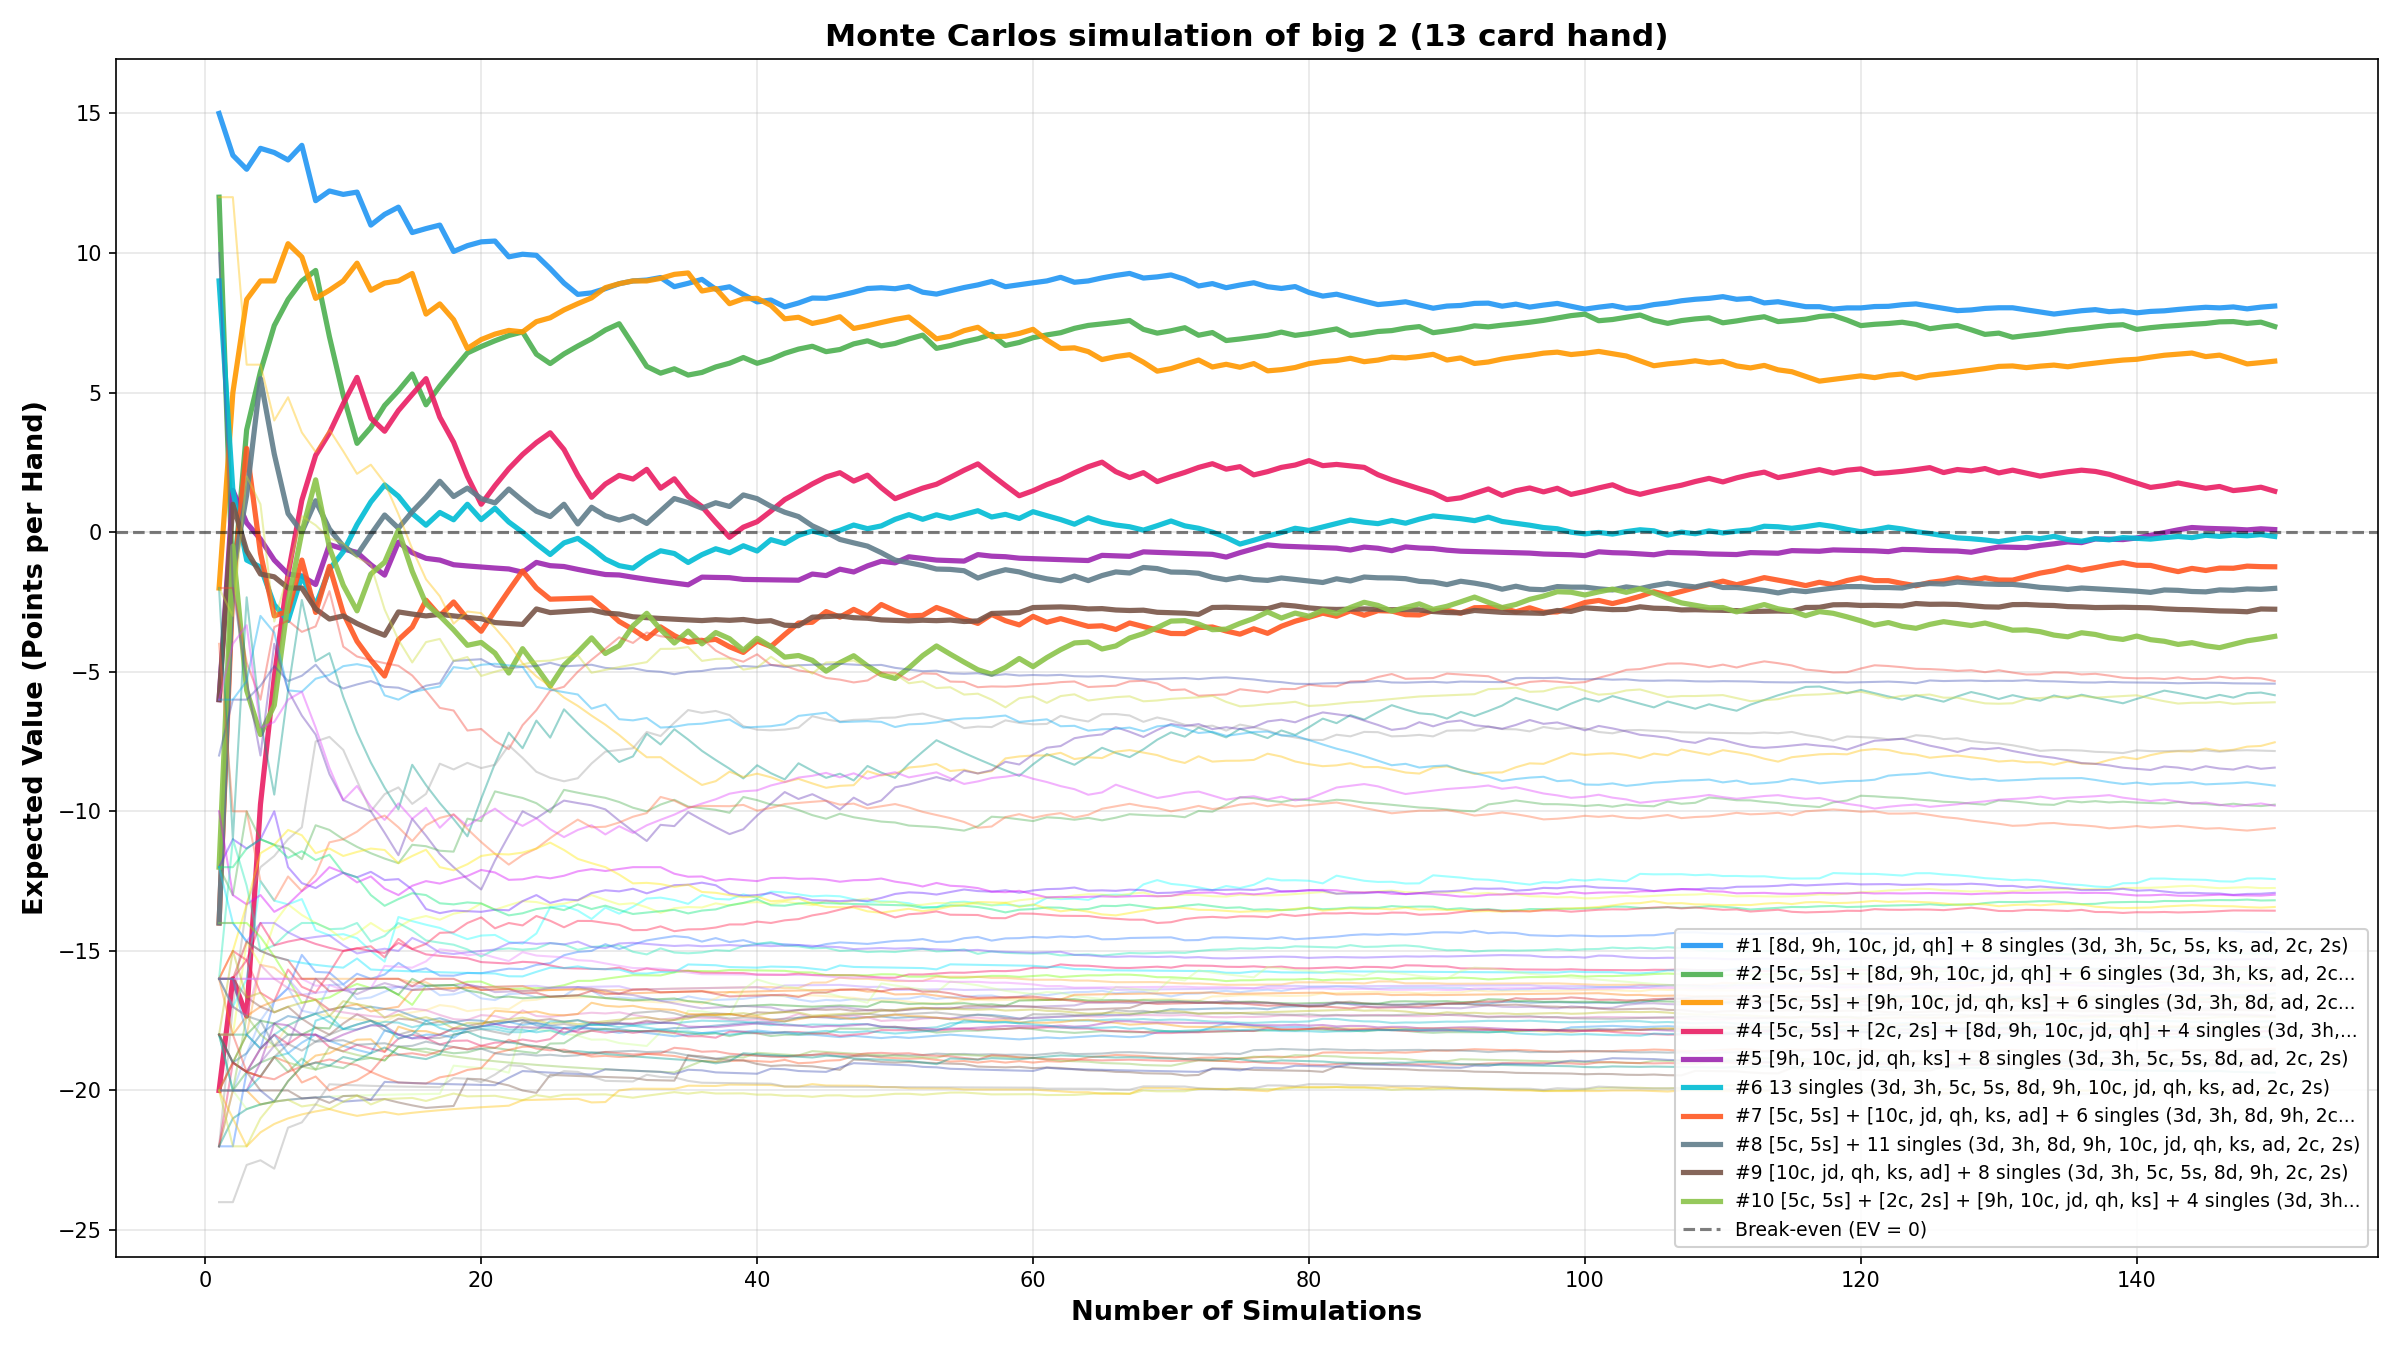
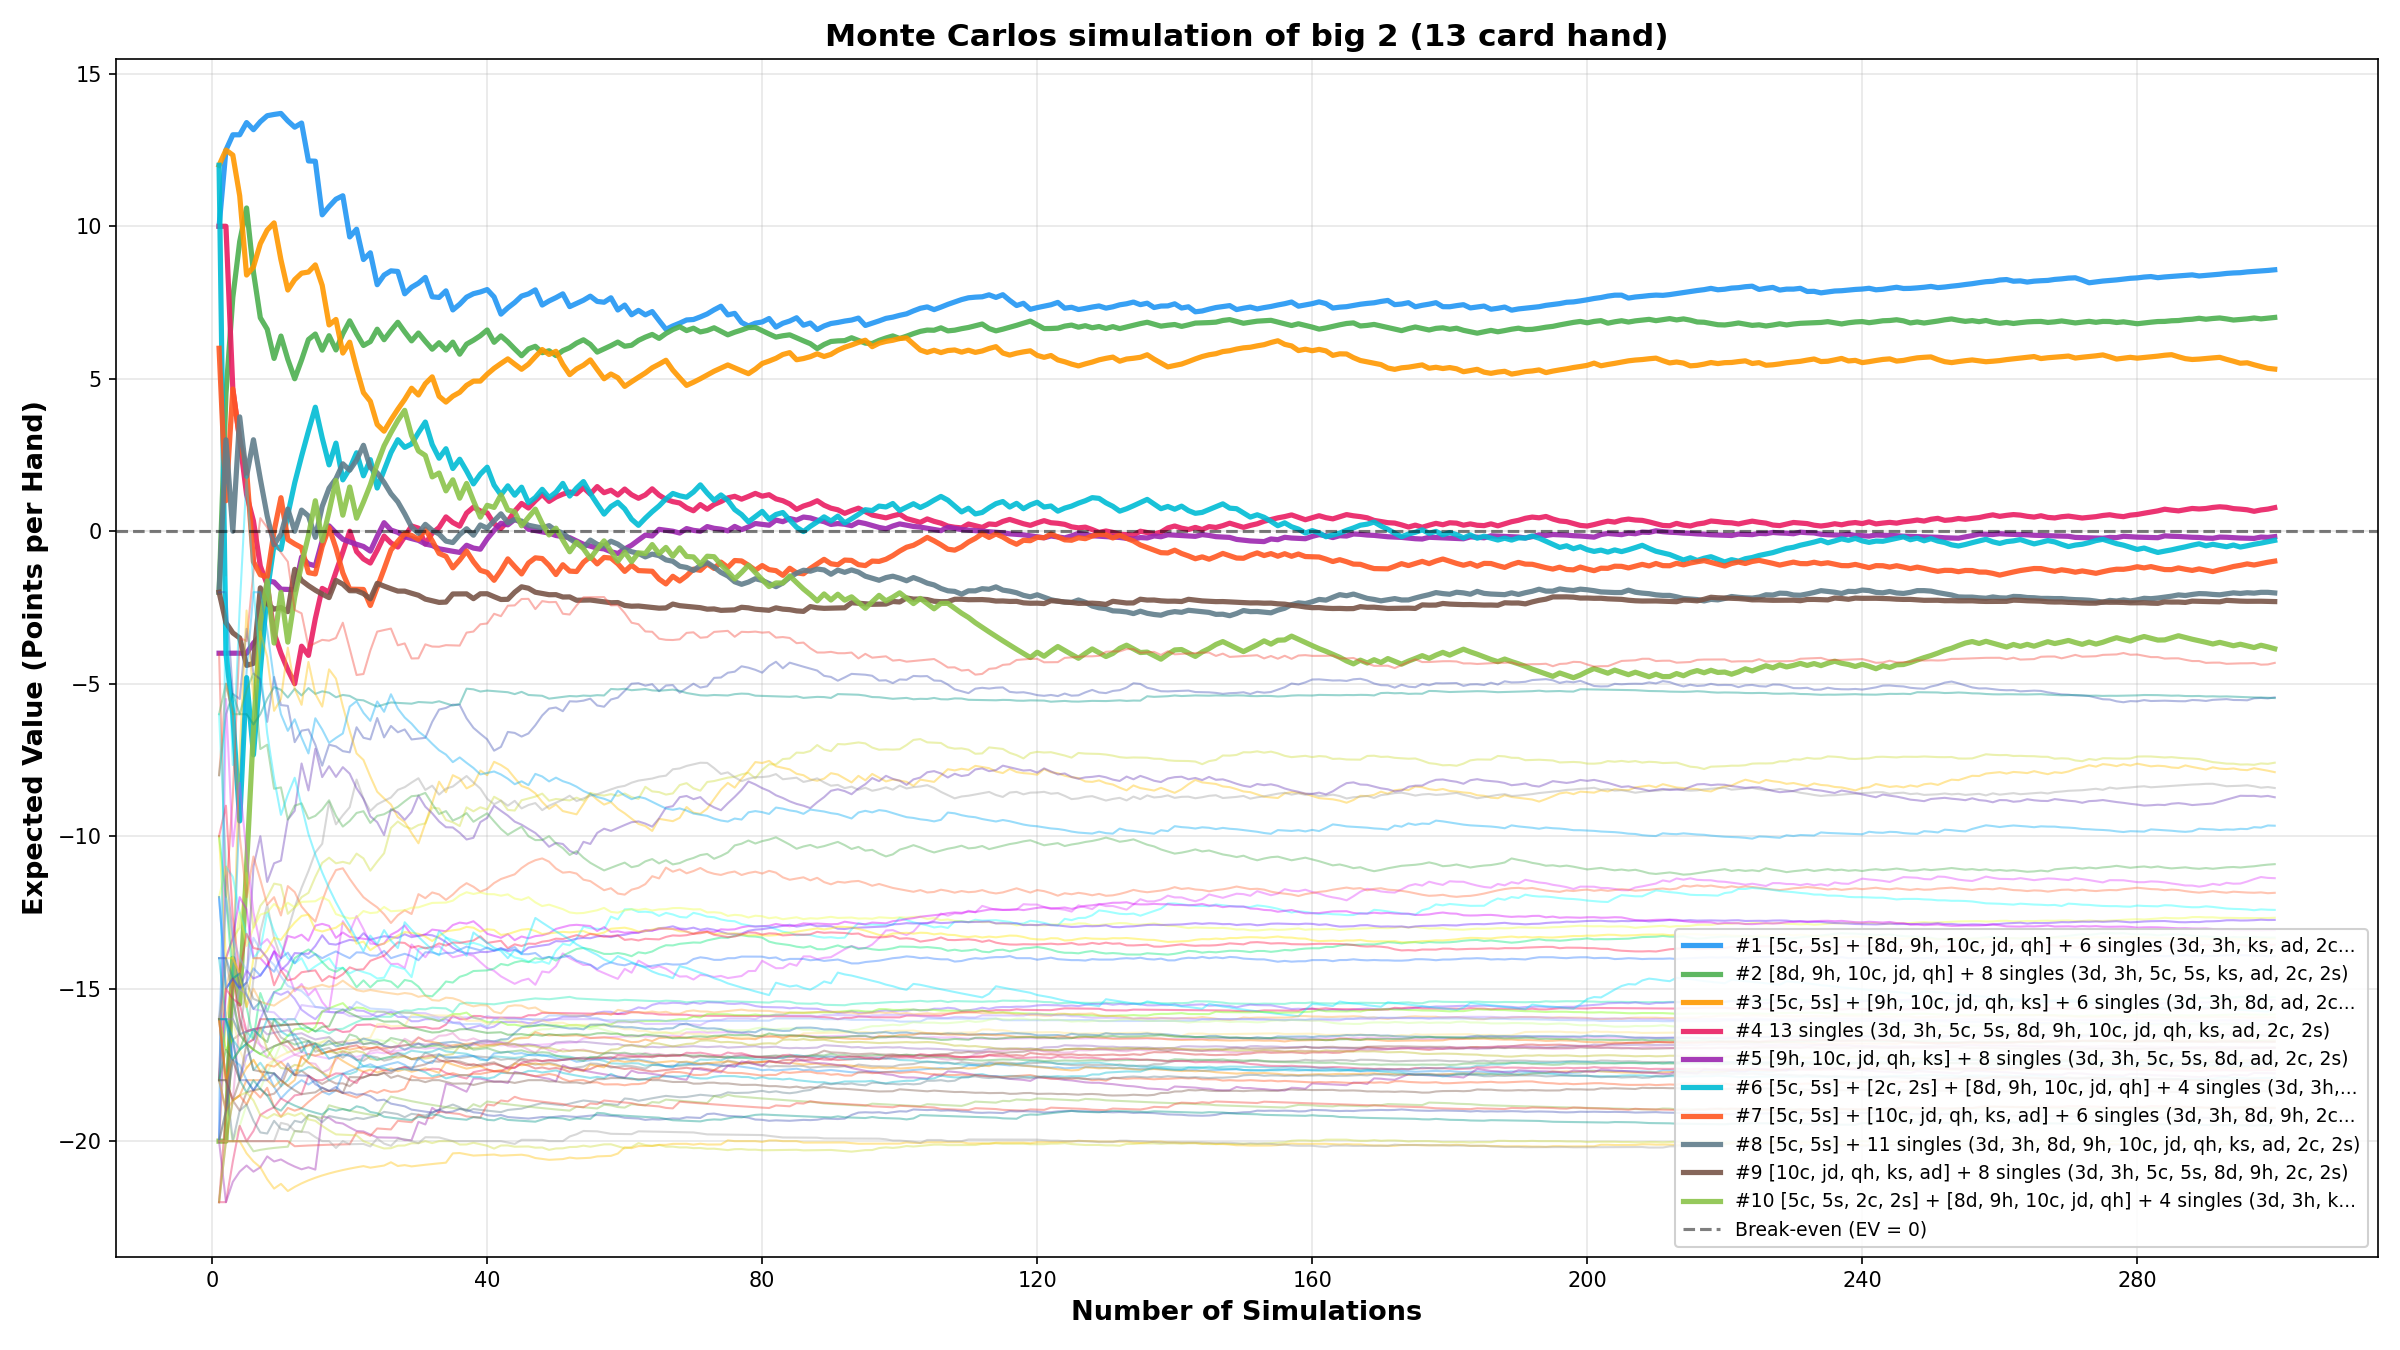
add Efficient Frontier graph

diff --git a/code/financial-analysis/risk_analysis.py b/code/financial-analysis/risk_analysis.py
@@ -20,7 +20,7 @@ import matplotlib.ticker as mticker
 
 PLAYER_HAND = [('3', 'd'), ('3', 'h'), ('5', 'c'), ('5', 's'), ('8', 'd'), ('9', 'h'), ('10', 'c'), ('j', 'd'), ('q', 'h'), ('k', 's'), ('a', 'd'), ('2', 'c'), ('2', 's')]
 OPP_CARDS = 8
-TOTAL_SIMS = 150
+TOTAL_SIMS = 300
 TOP_N = 10
 RESULTS_DIR = os.path.dirname(os.path.abspath(__file__))
 
@@ -96,6 +96,18 @@ def calculate_risk_metrics(pi_values):
     }
 
 
+def find_efficient_frontier(all_risk_results):
+    sorted_results = sorted(all_risk_results, key=lambda x: x['metrics']['std_dev'])
+    frontier = []
+    max_ev = float('-inf')
+    for r in sorted_results:
+        ev = r['metrics']['ev']
+        if ev >= max_ev:
+            frontier.append(r)
+            max_ev = ev
+    return frontier
+
+
 def plot_risk_return_scatter(all_risk_results):
     fig, ax = plt.subplots(figsize=(14, 9))
 
@@ -108,32 +120,80 @@ def plot_risk_return_scatter(all_risk_results):
     ax.axvline(x=median_std, color='gray', linestyle=':', alpha=0.4)
     ax.axhline(y=0, color='black', linestyle='--', alpha=0.5, linewidth=1.2, label='Break-even (EV = 0)')
 
+    frontier = find_efficient_frontier(all_risk_results)
+    frontier_set = {id(r) for r in frontier}
+    frontier_stds = [r['metrics']['std_dev'] for r in frontier]
+    frontier_evs = [r['metrics']['ev'] for r in frontier]
+
     for i, r in enumerate(all_risk_results):
-        color = '#4CAF50' if r['metrics']['sharpe'] > 0 else '#E91E63'
-        size = max(30, min(400, abs(r['metrics']['sharpe']) * 80))
-        alpha = 0.9 if i < TOP_N else 0.4
-        zorder = 3 if i < TOP_N else 1
-
-        if i < TOP_N:
-            label = f'#{i+1} {partition_to_string(r["partition"])}'
-            if len(label) > 60:
-                label = label[:57] + '...'
-        else:
-            label = None
-
+        if id(r) in frontier_set:
+            continue
         ax.scatter(r['metrics']['std_dev'], r['metrics']['ev'],
-                   s=size, c=color, alpha=alpha, edgecolors='none',
-                   label=label, zorder=zorder)
+                   s=50, c='gray', alpha=0.4, edgecolors='none', zorder=1)
+
+    for i, r in enumerate(frontier):
+        label = f'#{i+1} {partition_to_string(r["partition"])}'
+        if len(label) > 60:
+            label = label[:57] + '...'
+        ax.scatter(r['metrics']['std_dev'], r['metrics']['ev'],
+                   s=200, c='#4CAF50', alpha=0.9, edgecolors='white',
+                   linewidth=1.5, label=label, zorder=3)
+
+    ax.plot(frontier_stds, frontier_evs, 'g--', linewidth=2,
+            label='Efficient Frontier', zorder=2)
 
     ax.set_xlabel('Standard Deviation (Risk)', fontsize=13, fontweight='bold')
     ax.set_ylabel('Expected Value (Return)', fontsize=13, fontweight='bold')
-    ax.set_title('Risk-Return Scatter Plot — Sharpe Ratio (Bubble Size)', fontsize=15, fontweight='bold')
+    ax.set_title('Risk-Return Scatter Plot — Efficient Frontier Overlay', fontsize=15, fontweight='bold')
     ax.grid(True, alpha=0.3)
     ax.legend(fontsize=8, loc='best', framealpha=0.9, scatterpoints=1)
     ax.xaxis.set_major_locator(mticker.MaxNLocator(integer=True))
 
     fig.tight_layout()
     output_path = os.path.join(RESULTS_DIR, 'risk_return_scatter.png')
+    fig.savefig(output_path, dpi=150)
+    plt.close(fig)
+    return output_path
+
+
+def plot_efficient_frontier(all_risk_results):
+    frontier = find_efficient_frontier(all_risk_results)
+
+    fig, ax = plt.subplots(figsize=(12, 8))
+
+    frontier_stds = [r['metrics']['std_dev'] for r in frontier]
+    frontier_evs = [r['metrics']['ev'] for r in frontier]
+
+    ax.plot(frontier_stds, frontier_evs, 'g--', linewidth=2,
+            label='Efficient Frontier', zorder=1)
+
+    for i, r in enumerate(frontier):
+        std = r['metrics']['std_dev']
+        ev = r['metrics']['ev']
+        sharpe = r['metrics']['sharpe']
+
+        ax.scatter(std, ev, s=150, c='#4CAF50', alpha=0.9,
+                   edgecolors='white', linewidth=1.5, zorder=2)
+
+        label = partition_to_string(r['partition'])
+        if len(label) > 40:
+            label = label[:37] + '...'
+        ax.annotate(f'#{i+1} {label}\nSharpe: {sharpe:+.2f}',
+                    xy=(std, ev),
+                    xytext=(10, 10),
+                    textcoords='offset points',
+                    fontsize=9,
+                    bbox=dict(boxstyle='round,pad=0.3', facecolor='white', alpha=0.8))
+
+    ax.set_xlabel('Standard Deviation (Risk)', fontsize=13, fontweight='bold')
+    ax.set_ylabel('Expected Value (Return)', fontsize=13, fontweight='bold')
+    ax.set_title('Efficient Frontier — Optimal Risk-Return Tradeoffs', fontsize=15, fontweight='bold')
+    ax.grid(True, alpha=0.3)
+    ax.legend(fontsize=11, loc='best')
+    ax.xaxis.set_major_locator(mticker.MaxNLocator(integer=True))
+
+    fig.tight_layout()
+    output_path = os.path.join(RESULTS_DIR, 'efficient_frontier.png')
     fig.savefig(output_path, dpi=150)
     plt.close(fig)
     return output_path
@@ -212,6 +272,8 @@ def plot_sharpe_bar_chart(all_risk_results):
 
 
 def main():
+    random.seed(42)
+    
     print('=' * 70)
     print('Financial Analysis - Risk Metrics (Variance, VaR, Sharpe)')
     print('=' * 70)
@@ -278,6 +340,9 @@ def main():
 
     p3 = plot_sharpe_bar_chart(all_risk_results)
     print(f'  Saved: {p3}')
+
+    p4 = plot_efficient_frontier(all_risk_results)
+    print(f'  Saved: {p4}')
 
     print()
     print('=' * 70)

diff --git a/code/financial-analysis/ev_convergence.py b/code/financial-analysis/ev_convergence.py
@@ -19,7 +19,7 @@ import matplotlib.ticker as mticker
 
 PLAYER_HAND = [('3', 'd'), ('3', 'h'), ('5', 'c'), ('5', 's'), ('8', 'd'), ('9', 'h'), ('10', 'c'), ('j', 'd'), ('q', 'h'), ('k', 's'), ('a', 'd'), ('2', 'c'), ('2', 's')]
 OPP_CARDS = 8
-TOTAL_SIMS = 150
+TOTAL_SIMS = 300
 TOP_N_LEGEND = 10
 RESULTS_DIR = os.path.dirname(os.path.abspath(__file__))
 
@@ -127,6 +127,8 @@ def plot_ev_convergence(all_results, total_sims, colors):
 
 
 def main():
+    random.seed(42)
+    
     print('=' * 70)
     print('Financial Analysis - All Partitions EV Convergence')
     print('=' * 70)

diff --git a/journey/week7.md b/journey/week7.md
@@ -32,14 +32,14 @@ Each metric answers a different question. Use them together for optimal strategy
 | 0 – 0.5 | Marginal | Only play if no better option exists |
 | < 0 | Losing | Avoid — negative return per unit of risk |
 
-### Example from Simulation Results
+### Example from Simulation Results (300 simulations, fixed seed)
 
 | Rank | Partition | EV | VaR(95%) | Sharpe | Interpretation |
 |------|-----------|------|----------|--------|----------------|
-| 1 | `[5c,5s] + [8d,9h,10c,jd,qh] + 6 singles` | +10.16 | -14.00 | **+1.13** | **Best overall** — high return, excellent Sharpe despite moderate tail risk |
-| 2 | `[8d,9h,10c,jd,qh] + 8 singles` | +6.43 | **-6.00** | +0.78 | **Safest** — lowest downside, good for conservative play |
-| 3 | `[5c,5s] + [9h,10c,jd,qh,ks] + 6 singles` | +3.95 | -14.00 | +0.34 | **Marginal** — barely beats risk, consider alternatives |
-| 4 | `13 singles` | +1.05 | -12.00 | +0.12 | **Barely profitable** — essentially breakeven |
+| 1 | `[8d,9h,10c,jd,qh] + 8 singles` | +7.01 | **-4.00** | **+0.88** | **Best risk-adjusted** — lowest downside, excellent Sharpe |
+| 2 | `[5c,5s] + [8d,9h,10c,jd,qh] + 6 singles` | **+8.57** | -16.00 | +0.84 | **Highest EV** — more return but 4× worse VaR than #1 |
+| 3 | `[5c,5s] + [9h,10c,jd,qh,ks] + 6 singles` | +5.32 | -14.00 | +0.50 | **Good** — solid EV with moderate risk |
+| 4 | `13 singles` | +0.77 | -12.00 | +0.08 | **Barely profitable** — essentially breakeven |
 
 ### VaR Interpretation
 
@@ -57,12 +57,13 @@ Each metric answers a different question. Use them together for optimal strategy
 ## How It Works
 
 1. **Partition Enumeration** — Finds every valid way to group the 13-card hand into legal Big 2 plays (e.g., pairs, straights, singles)
-2. **Simulation Loop** — For each partition:
+2. **Simulation Loop** — For each partition (66 total):
    - Deals 8 random cards to 3 opponents
-   - Runs `TOTAL_SIMS` full games with all players using SmartAI
+   - Runs 300 full games with all players using SmartAI
    - Records each game's point outcome (Pi)
-3. **Ranking** — Sorts partitions by EV or Sharpe Ratio (descending)
-4. **Visualization** — Generates convergence curves, scatter plots, histograms, and bar charts
+3. **Reproducibility** — Fixed random seed (`random.seed(42)`) ensures identical results across runs
+4. **Ranking** — Sorts partitions by EV or Sharpe Ratio (descending)
+5. **Visualization** — Generates convergence curves, scatter plots, histograms, bar charts, and Efficient Frontier
 
 ## Output
 
@@ -77,12 +78,24 @@ Each metric answers a different question. Use them together for optimal strategy
 
 - **Console**: Ranked summary table with EV, Std Dev, VaR(95%), and Sharpe Ratio
 - **Graphs**:
-  - `risk_return_scatter.png` — Risk (Std Dev) vs Return (EV) scatter plot, bubble size = Sharpe Ratio
+  - `risk_return_scatter.png` — Risk (Std Dev) vs Return (EV) scatter plot with Efficient Frontier overlay (green dashed line). Efficient partitions shown in green, inefficient in gray.
   ![](../images/risk_return_scatter.png)
+  - `efficient_frontier.png` — Clean view showing only the optimal partitions on the frontier curve, labeled with Sharpe Ratio.
+  ![](../images/efficient_frontier.png)
   - `risk_histogram.png` — Return distribution histogram for the top Sharpe partition with VaR marker
   ![](../images/risk_histogram.png)
   - `sharpe_bar_chart.png` — Sharpe Ratio ranking bar chart for top 20 partitions
   ![](../images/sharpe_bar_chart.png)
+
+### Efficient Frontier
+
+The **Efficient Frontier** (from Modern Portfolio Theory) identifies the set of **optimal partitions** offering the best expected return for a given level of risk. A partition is on the frontier if no other partition provides:
+- Higher EV for the same or lower risk, OR
+- Lower risk for the same or higher EV
+
+Partitions **below the frontier** are **inefficient** — you can achieve higher returns without accepting additional risk.
+
+**Strategic Insight**: Choose partitions on the efficient frontier for optimal risk-adjusted returns. The frontier curve shows the maximum achievable EV at each risk level.
 
 
 ## Takeaway
@@ -95,12 +108,16 @@ Week 4 established that Expected Value determines profitability. Week 7 adds **r
 
 | Layer | Question | Example from Results |
 |-------|----------|---------------------|
-| **EV > 0** | Is this profitable? | All 4 partitions pass (EV +1.05 to +10.16) |
-| **VaR(95%)** | Can I survive the worst 5%? | Partition #2 (VaR -6) is 2.3× safer than #1 (VaR -14) |
-| **Sharpe Ratio** | Is the return worth the risk? | Partition #1 (Sharpe 1.13) beats #2 (Sharpe 0.78) |
+| **EV > 0** | Is this profitable? | 4 partitions pass (EV +0.77 to +8.57) |
+| **VaR(95%)** | Can I survive the worst 5%? | Partition #1 (VaR -4) is 4× safer than #2 (VaR -16) |
+| **Sharpe Ratio** | Is the return worth the risk? | Partition #1 (Sharpe 0.88) beats #2 (Sharpe 0.84) |
 
 ### Key Findings
 
-**VaR reveals what EV hides** — Partitions #1 and #3 have identical VaR (-14) but very different EVs (+10.16 vs +3.95). This means both have the same worst-case downside — #1's extra return comes entirely from bigger wins, not reduced losses. In finance terms: **positive skew** (same floor, higher ceiling).
+**VaR reveals what EV hides** — Partition #2 has higher EV (+8.57 vs +7.01) but 4× worse VaR (-16 vs -4). This means #2 wins bigger on average but has much worse downside risk. In finance terms: **higher return, higher tail risk**.
 
-Play the partition with the **highest Sharpe Ratio** that fits your risk tolerance. **Aggressive position sizing** → Partition #1 (maximize returns). **Defensive position sizing** → Partition #2 (survivability first). 
+**The Efficient Frontier shows the tradeoff** — Both partitions #1 and #2 are on the frontier, meaning neither is dominated. The choice depends on risk tolerance:
+- **Aggressive play** → Partition #2 `[5c,5s] + [8d,9h,10c,jd,qh] + 6 singles` (maximize EV at +8.57)
+- **Conservative play** → Partition #1 `[8d,9h,10c,jd,qh] + 8 singles` (minimize risk at VaR -4)
+
+**Reproducibility matters** — With fixed random seed, both scripts now produce identical EV values (e.g., +8.57 for partition #2), eliminating Monte Carlo variance between runs.
